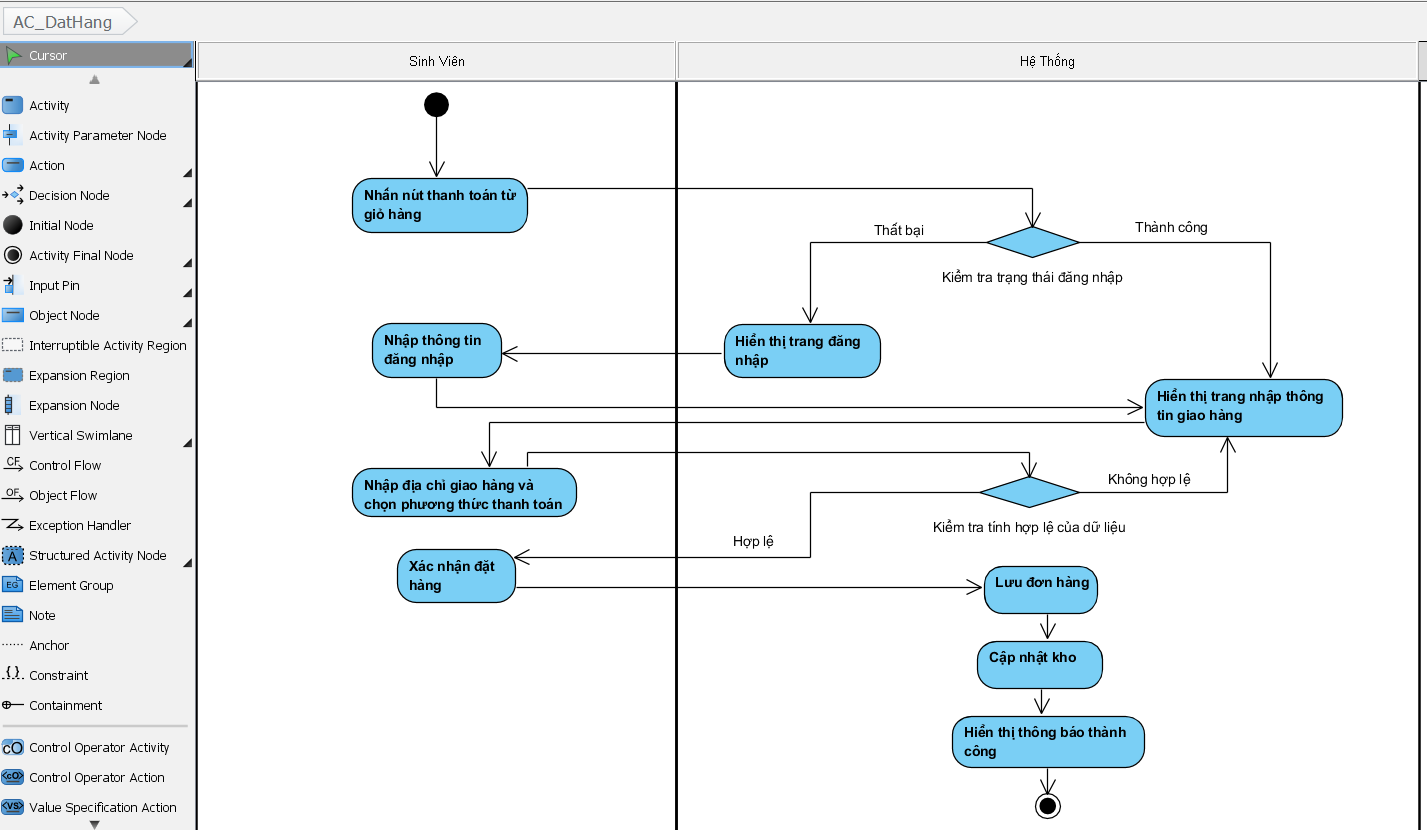
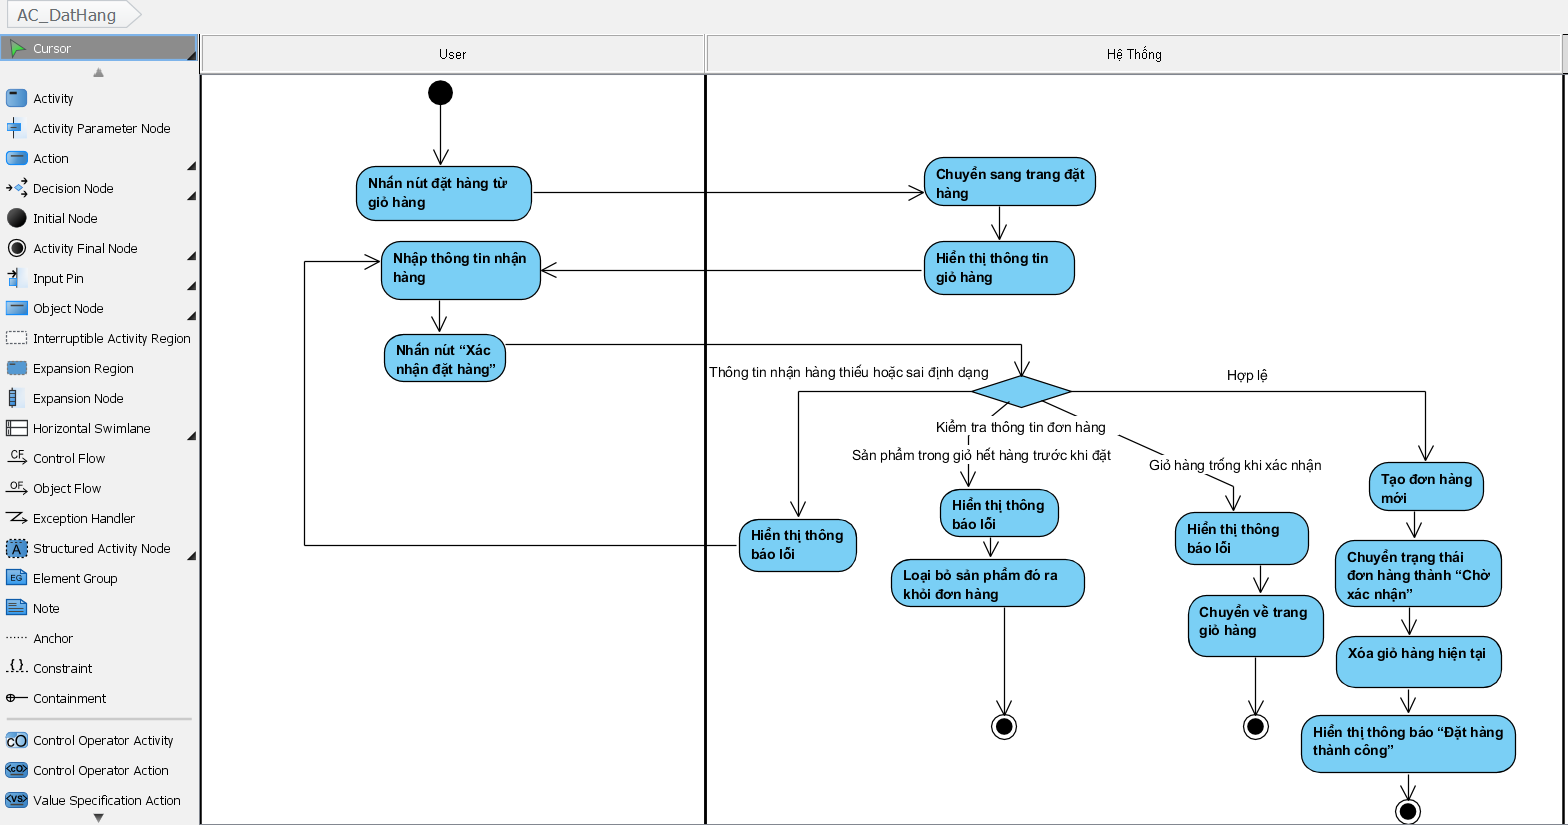
cập nhật activity

Changed region(s): [[0.0, 0.0, 1.0, 1.0], [0.8017, 0.2727, 0.8633, 0.303], [0.4317, 0.9697, 0.4933, 1.0]]

diff --git a/PTTKHT/ActivityDiagram.md b/PTTKHT/ActivityDiagram.md
@@ -1,0 +1,55 @@
+## AC_DangNhap
+
+![Activity Diagram Đăng nhập](images/AC_DangNhap.png)
+
+## AC_DangKy
+
+![Activity Diagram Đăng ký](images/AC_DangKy.png)
+
+## AC_TimKiemVaLoc
+
+![Activity Diagram Tìm kiếm và lọc sản phẩm](images/AC_TimKiemVaLoc.png)
+
+## AC_XemChiTietSanPham
+
+![Activity Diagram Xem chi tiết sản phẩm](images/AC_XemChiTietSanPham.png)
+
+## AC_QuanLyGioHang
+
+![Activity Diagram Quản lý giỏ hàng](images/AC_QuanLyGioHang.png)
+
+## AC_DatHang
+
+![Activity Diagram Đặt hàng](images/AC_DatHang.png)
+
+## AC_LichSuMuaHang
+
+![Activity Diagram Lịch sử mua hàng](images/AC_LichSuMuaHang.png)
+
+## AC_ChiTietDonHangDaDat
+
+![Activity Diagram Chi tiết đơn hàng đã đặt](images/AC_ChiTietDonHangDaDat.png)
+
+## AC_CapNhatHoSo
+
+![Activity Diagram Cập nhật hồ sơ](images/AC_CapNhatHoSo.png)
+
+## AC_DoiMatKhau
+
+![Activity Diagram Đổi mật khẩu](images/AC_DoiMatKhau.png)
+
+## AC_QuanLySanPham
+
+![Activity Diagram Quản lý sản phẩm](images/AC_QuanLySanPham.png)
+
+## AC_QuanLyDanhMuc
+
+![Activity Diagram Quản lý danh mục](images/AC_QuanLyDanhMuc.png)
+
+## AC_QuanLyDonHang
+
+![Activity Diagram Quản lý đơn hàng](images/AC_QuanLyDonHang.png)
+
+## AC_XemThongKeBaoCao
+
+![Activity Diagram Xem thống kê báo cáo](images/AC_XemThongKeBaoCao.png)
